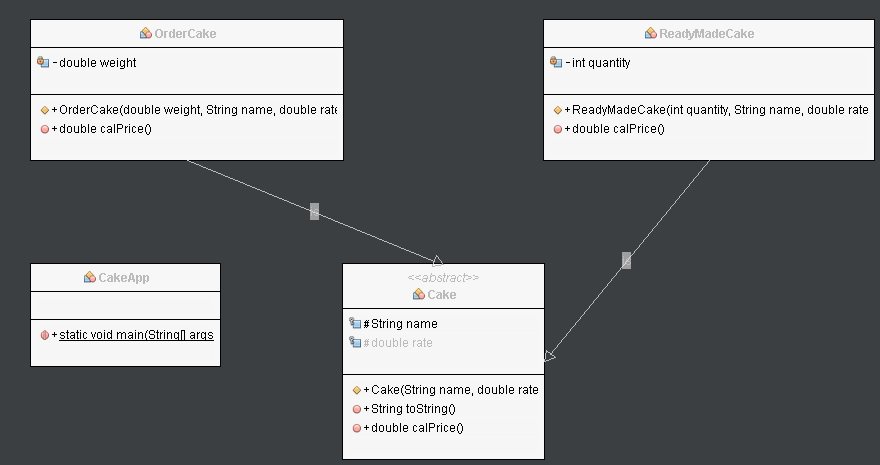
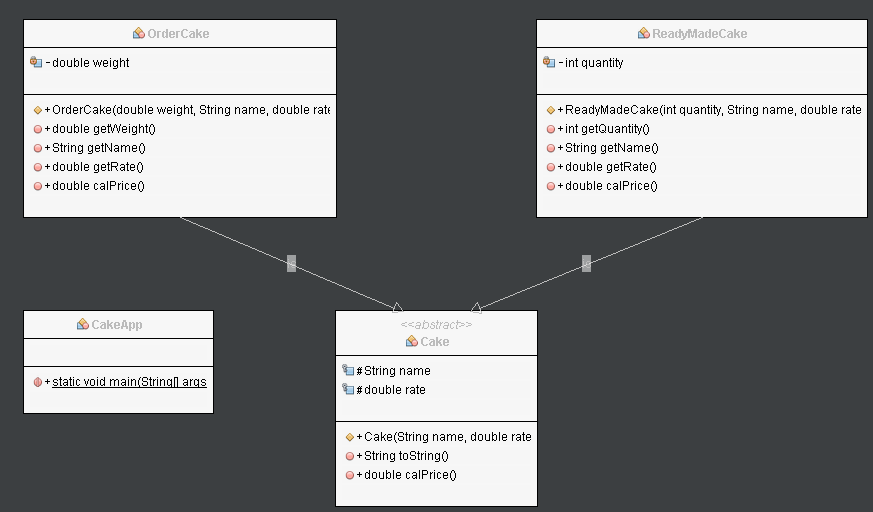
Fix a bug, add accessors, rewrite logic

diff --git a/AOOP/lab05/src/main/java/Task2/CakeApp.java b/AOOP/lab05/src/main/java/Task2/CakeApp.java
@@ -16,8 +16,9 @@ public class CakeApp {
         Cake[] cakeList = new Cake[7];
         int quantity = 0;
         double totalPrice = 0.0;
+        double totalReadyMadeCakePrice = 0.0;
         double highestPrice = 0.0;
-        int index = 0;
+        String highestMsg = "";
 
         cakeList[0] = new OrderCake(4.5, "Butter", 50);
         cakeList[1] = new ReadyMadeCake(5, "Pound", 25);
@@ -27,31 +28,39 @@ public class CakeApp {
         cakeList[5] = new ReadyMadeCake(10, "Angel Food", 49);
         cakeList[6] = new ReadyMadeCake(2, "Chiffon", 15);
 
-        for (quantity = 0; quantity < cakeList.length; quantity++) {
-            double price = cakeList[quantity].calPrice();
+        for (int i = 0; i < cakeList.length; i++) {
+            double price = cakeList[i].calPrice();
             totalPrice += price;
+            if (cakeList[i] instanceof ReadyMadeCake) {
+                quantity += ((ReadyMadeCake) cakeList[i]).getQuantity();
+                totalReadyMadeCakePrice += cakeList[i].calPrice();
+            }
             if (price > highestPrice) {
                 highestPrice = price;
-                index = quantity;
+                if (cakeList[i] instanceof ReadyMadeCake) {
+                    highestMsg = ((ReadyMadeCake) cakeList[i]).getName()
+                            + " " + ((ReadyMadeCake) cakeList[i]).getRate()
+                            + " " + ((ReadyMadeCake) cakeList[i]).getQuantity()
+                            + " pieces " + ((ReadyMadeCake) cakeList[i]).calPrice();
+                } else {
+                    highestMsg = ((OrderCake) cakeList[i]).getName()
+                            + " " + ((OrderCake) cakeList[i]).getRate()
+                            + " " + ((OrderCake) cakeList[i]).getWeight()
+                            + " pounds " + ((OrderCake) cakeList[i]).calPrice();
+                }
             }
         }
-        System.out.println("Total price of all cakes sold " + totalPrice + "\n"
+
+        System.out.println("Total price of all cakes sold: " + totalPrice + "\n"
                 + "ReadyMadeCake:\n"
                 + "\tTotal quantity sold " + quantity + "\n"
-                + "\tTotal price sold " + totalPrice + "\n"
-                + "Highest Price Cake: " + cakeList[index].name
-                + " " + cakeList[index].rate + " "
-                + (int) (cakeList[index].calPrice() / cakeList[index].rate)
-                + " pieces " + cakeList[index].calPrice());
+                + "\tTotal price sold " + totalReadyMadeCakePrice + "\n"
+                + "Highest Price Cake: " + highestMsg);
 
-        JOptionPane.showMessageDialog(null, "Total price of all cakes sold "
-                + totalPrice + "\n"
+        JOptionPane.showMessageDialog(null, "Total price of all cakes sold: " + totalPrice + "\n"
                 + "ReadyMadeCake:\n"
                 + "  Total quantity sold " + quantity + "\n"
-                + "  Total price sold " + totalPrice + "\n"
-                + "Highest Price Cake: " + cakeList[index].name
-                + " " + cakeList[index].rate + " "
-                + (int) (cakeList[index].calPrice() / cakeList[index].rate)
-                + " pieces " + cakeList[index].calPrice());
+                + "  Total price sold " + totalReadyMadeCakePrice + "\n"
+                + "Highest Price Cake: " + highestMsg);
     }
 }

diff --git a/AOOP/lab05/src/main/java/Task2/ReadyMadeCake.java b/AOOP/lab05/src/main/java/Task2/ReadyMadeCake.java
@@ -17,6 +17,18 @@ public class ReadyMadeCake extends Cake {
         this.quantity = quantity;
     }
 
+    public int getQuantity() {
+        return this.quantity;
+    }
+
+    public String getName() {
+        return this.name;
+    }
+
+    public double getRate() {
+        return this.rate;
+    }
+
     @Override
     public double calPrice() {
         return this.rate * this.quantity;

diff --git a/AOOP/lab05/src/main/java/Task2/OrderCake.java b/AOOP/lab05/src/main/java/Task2/OrderCake.java
@@ -17,6 +17,18 @@ public class OrderCake extends Cake {
         this.weight = weight;
     }
 
+    public double getWeight() {
+        return this.weight;
+    }
+
+    public String getName() {
+        return this.name;
+    }
+
+    public double getRate() {
+        return this.rate;
+    }
+
     @Override
     public double calPrice() {
         return this.rate * this.weight;
